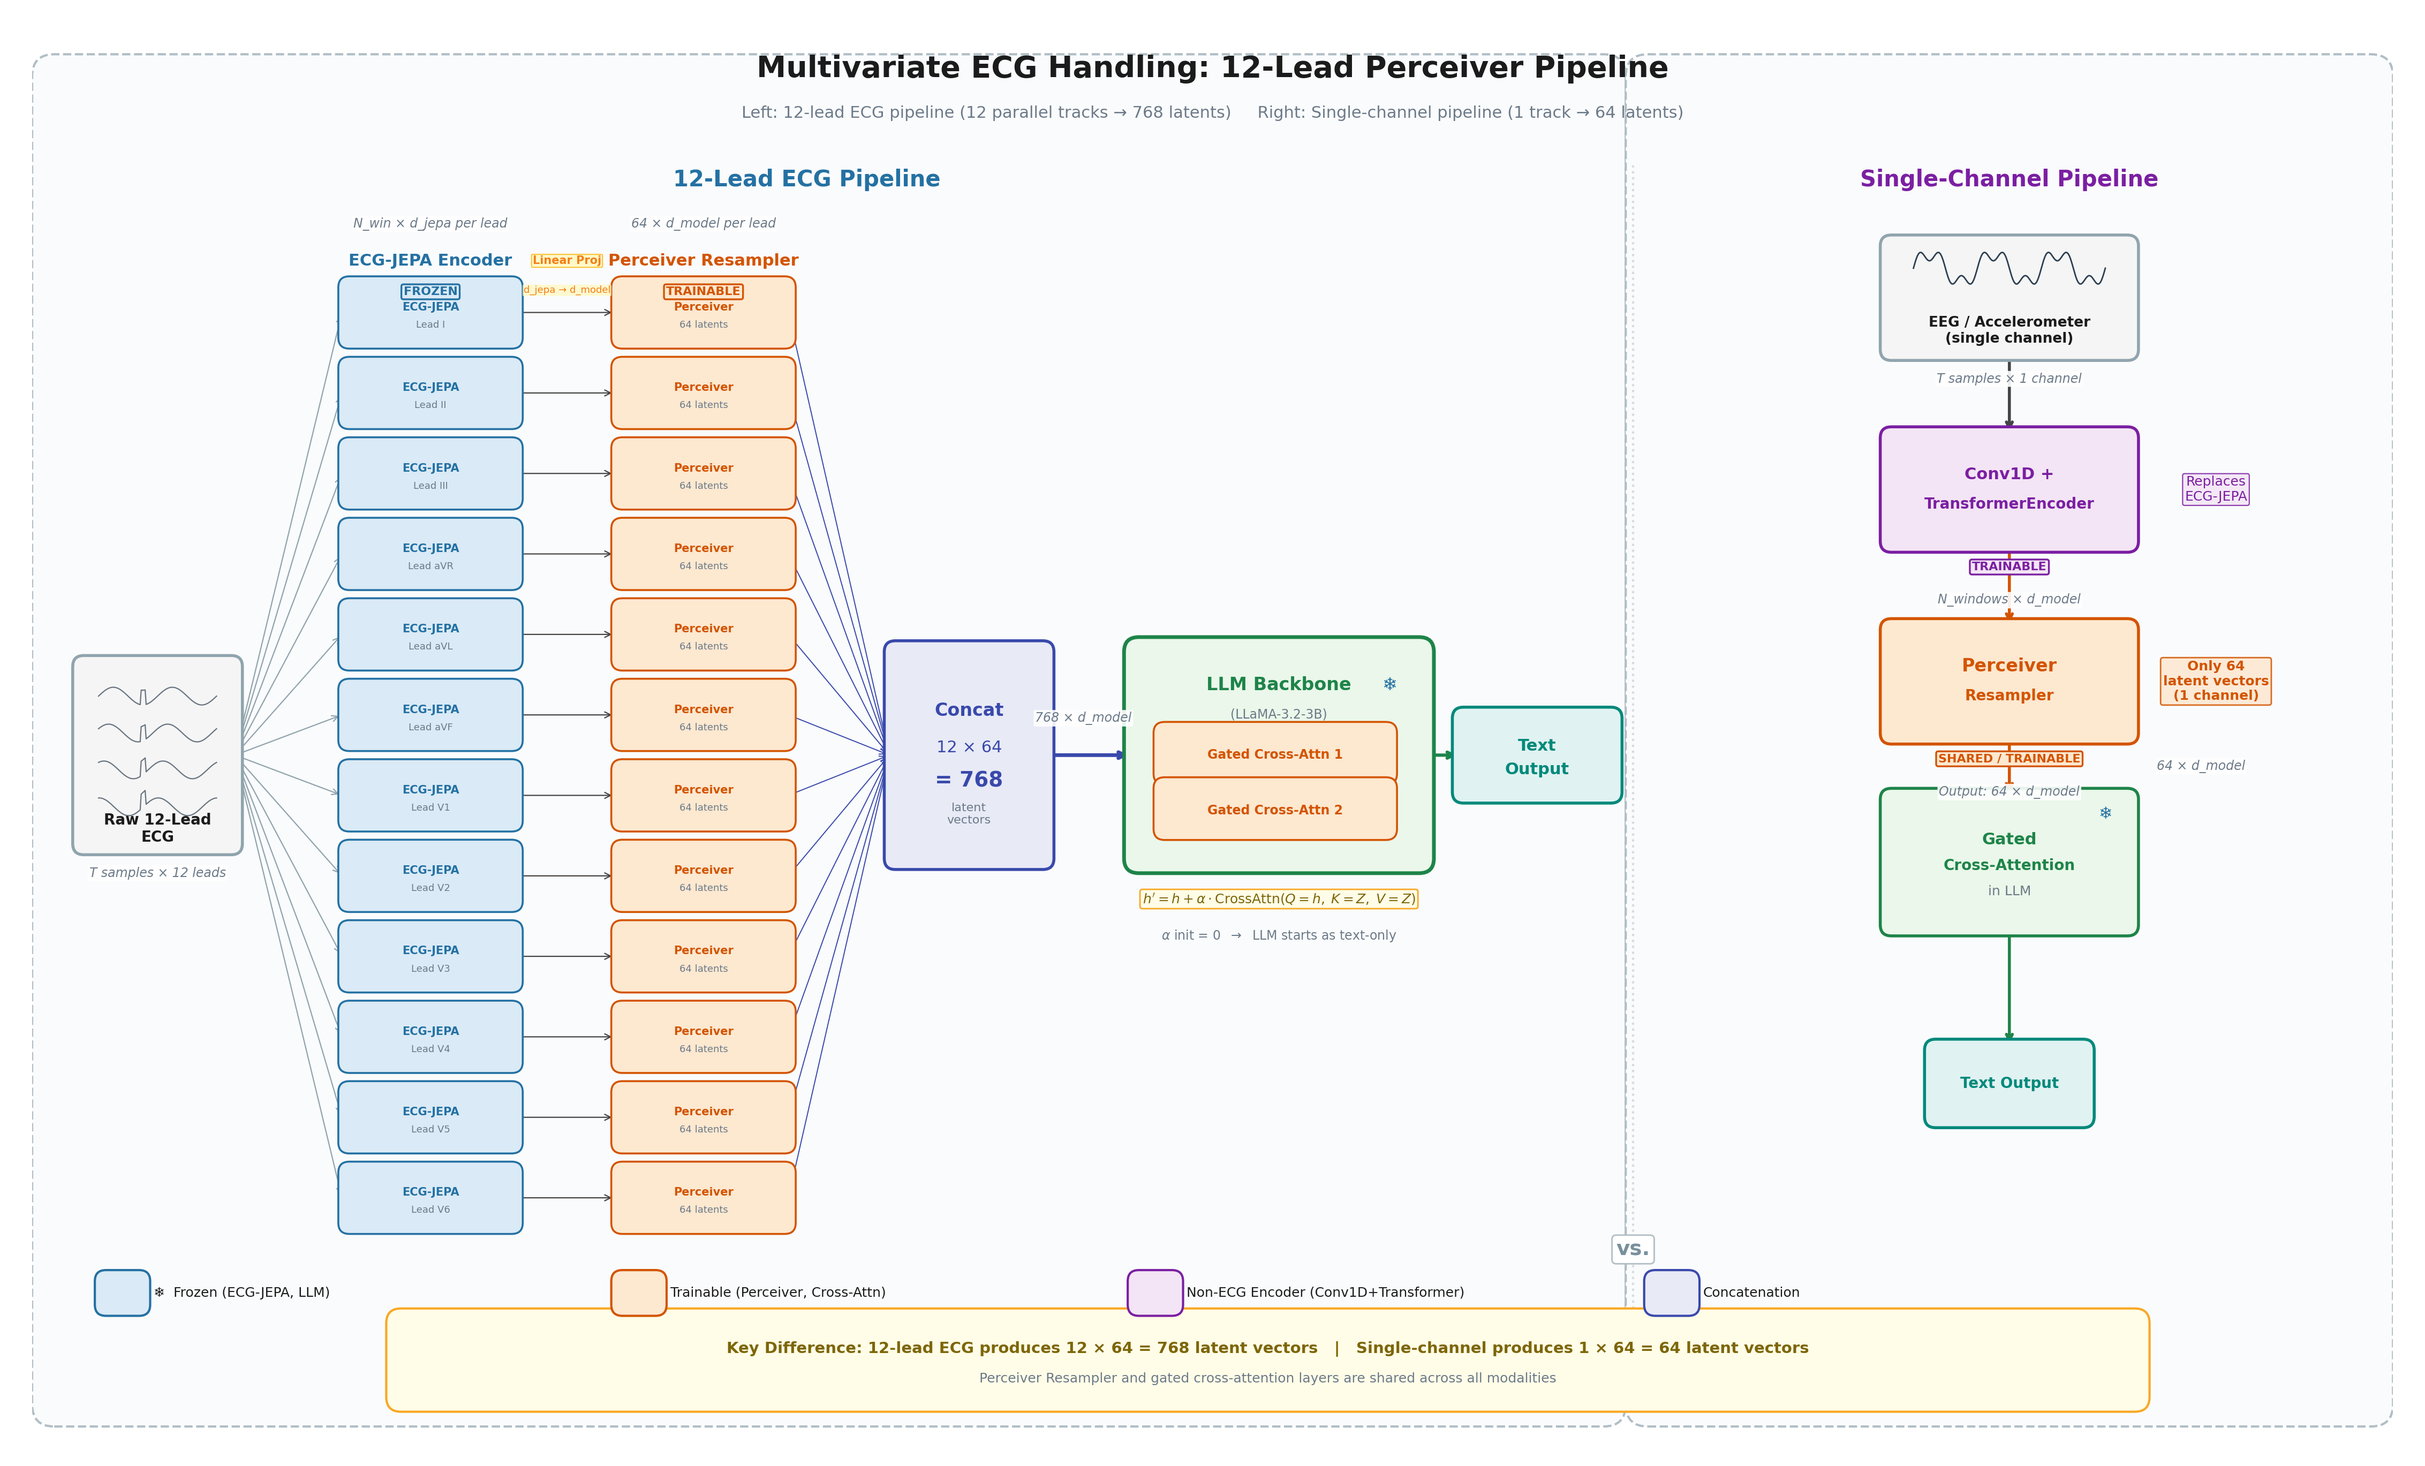
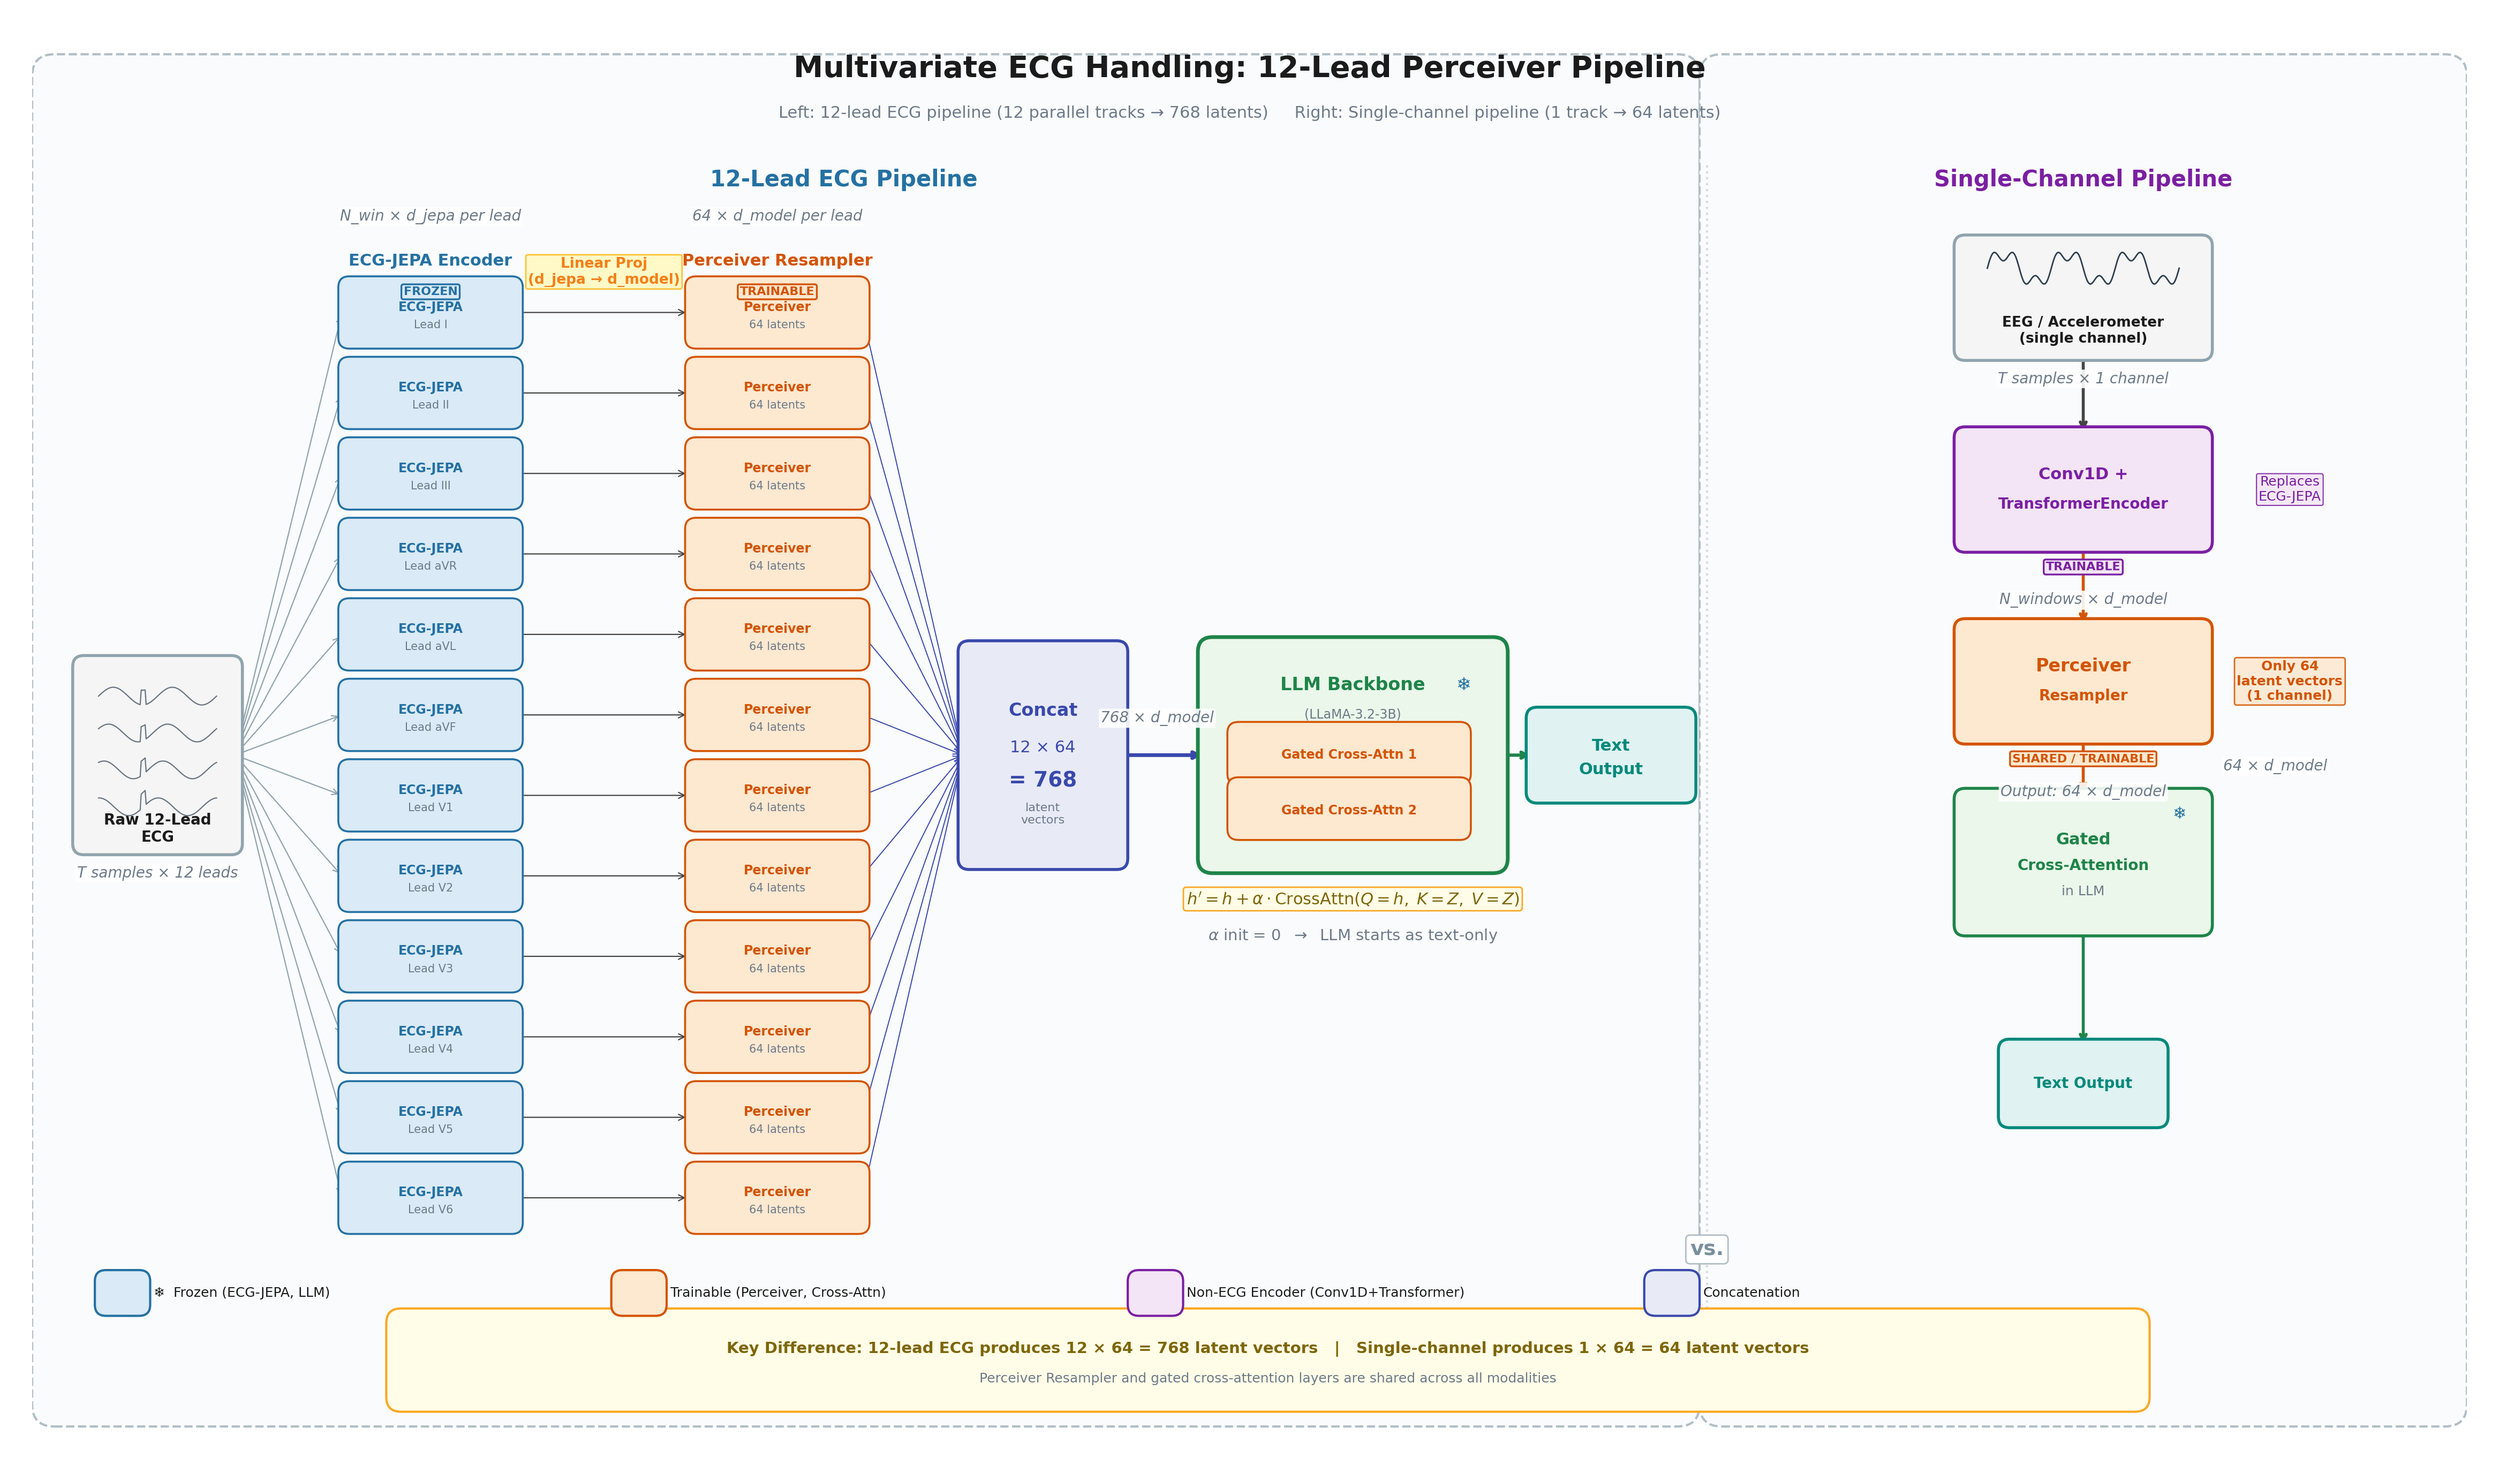
Fix figures after review for qoq-med

diff --git a/qoq-med/fig_002.py b/qoq-med/fig_002.py
@@ -36,7 +36,7 @@ SINGLE_BD   = "#7B1FA2"
 
 # ── Figure setup ────────────────────────────────────────────────────
 fig, ax = plt.subplots(figsize=(32, 17))
-ax.set_xlim(-1.5, 30.5)
+ax.set_xlim(-1.5, 31.5)
 ax.set_ylim(-2.2, 16.8)
 ax.set_aspect('equal')
 ax.axis('off')
@@ -61,7 +61,7 @@ def arr(x1, y1, x2, y2, color=ARROW_CLR, lw=2.2, style='->', cs=None, zorder=2):
         props['connectionstyle'] = cs
     ax.annotate('', xy=(x2, y2), xytext=(x1, y1), arrowprops=props, zorder=zorder)
 
-def dim(x, y, s, fs=8.5):
+def dim(x, y, s, fs=10):
     txt(x, y, s, fs=fs, fc=DIM_CLR, style='italic',
         bbox=dict(boxstyle='round,pad=0.12', fc='white', ec='none', alpha=0.9))
 
@@ -75,9 +75,9 @@ def snow(x, y, size=13):
 # ====================================================================
 # TITLE
 # ====================================================================
-txt(14.5, 16.3, "Multivariate ECG Handling: 12-Lead Perceiver Pipeline",
+txt(15.0, 16.3, "Multivariate ECG Handling: 12-Lead Perceiver Pipeline",
     fs=20, fw='bold')
-txt(14.5, 15.7,
+txt(15.0, 15.7,
     "Left: 12-lead ECG pipeline (12 parallel tracks \u2192 768 latents)     "
     "Right: Single-channel pipeline (1 track \u2192 64 latents)",
     fs=11, fc=DIM_CLR)
@@ -85,11 +85,11 @@ txt(14.5, 15.7,
 # ====================================================================
 # PANEL BACKGROUNDS
 # ====================================================================
-rbox(-1.2, -1.8, 21.0, 18.0, PANEL_BG, '#B0BEC5', lw=1.5, pad=0.3, ls='--', zorder=0)
-txt(9.0, 14.8, "12-Lead ECG Pipeline", fs=15, fw='bold', fc=FROZEN_BD)
+rbox(-1.2, -1.8, 22.0, 18.0, PANEL_BG, '#B0BEC5', lw=1.5, pad=0.3, ls='--', zorder=0)
+txt(9.5, 14.8, "12-Lead ECG Pipeline", fs=15, fw='bold', fc=FROZEN_BD)
 
-rbox(20.4, -1.8, 9.8, 18.0, PANEL_BG, '#B0BEC5', lw=1.5, pad=0.3, ls='--', zorder=0)
-txt(25.3, 14.8, "Single-Channel Pipeline", fs=15, fw='bold', fc=SINGLE_BD)
+rbox(21.4, -1.8, 9.8, 18.0, PANEL_BG, '#B0BEC5', lw=1.5, pad=0.3, ls='--', zorder=0)
+txt(26.3, 14.8, "Single-Channel Pipeline", fs=15, fw='bold', fc=SINGLE_BD)
 
 # ====================================================================
 # LEFT SIDE: 12-LEAD ECG PIPELINE
@@ -126,7 +126,7 @@ lead_ys = np.linspace(lead_y_start, lead_y_end, n_leads)
 jepa_x = 2.8
 jepa_w, jepa_h = 2.2, 0.68
 
-perc_x = 6.5
+perc_x = 7.5
 perc_w, perc_h = 2.2, 0.68
 
 ecg_out_x = ecg_x + ecg_w
@@ -140,8 +140,8 @@ for i, (lead_name, ly) in enumerate(zip(all_leads, lead_ys)):
 
     # ECG-JEPA box (frozen)
     rbox(jepa_x, ly - jepa_h / 2, jepa_w, jepa_h, FROZEN_BG, FROZEN_BD, lw=1.3)
-    txt(jepa_x + jepa_w / 2, ly + 0.07, "ECG-JEPA", fs=7.5, fw='bold', fc=FROZEN_BD)
-    txt(jepa_x + jepa_w / 2, ly - 0.17, f"Lead {lead_name}", fs=6.5, fc=DIM_CLR)
+    txt(jepa_x + jepa_w / 2, ly + 0.07, "ECG-JEPA", fs=8.5, fw='bold', fc=FROZEN_BD)
+    txt(jepa_x + jepa_w / 2, ly - 0.17, f"Lead {lead_name}", fs=7.5, fc=DIM_CLR)
 
     # Arrow JEPA → Perceiver
     arr(jepa_x + jepa_w + 0.05, ly, perc_x - 0.1, ly,
@@ -149,8 +149,8 @@ for i, (lead_name, ly) in enumerate(zip(all_leads, lead_ys)):
 
     # Perceiver Resampler box (trainable)
     rbox(perc_x, ly - perc_h / 2, perc_w, perc_h, TRAIN_BG, TRAIN_BD, lw=1.3)
-    txt(perc_x + perc_w / 2, ly + 0.07, "Perceiver", fs=7.5, fw='bold', fc=TRAIN_BD)
-    txt(perc_x + perc_w / 2, ly - 0.17, "64 latents", fs=6.5, fc=DIM_CLR)
+    txt(perc_x + perc_w / 2, ly + 0.07, "Perceiver", fs=8.5, fw='bold', fc=TRAIN_BD)
+    txt(perc_x + perc_w / 2, ly - 0.17, "64 latents", fs=7.5, fc=DIM_CLR)
 
 # Column labels above tracks
 txt(jepa_x + jepa_w / 2, lead_y_start + 0.7, "ECG-JEPA Encoder", fs=11, fw='bold', fc=FROZEN_BD)
@@ -160,20 +160,19 @@ txt(perc_x + perc_w / 2, lead_y_start + 0.7, "Perceiver Resampler", fs=11, fw='b
 badge(perc_x + perc_w / 2, lead_y_start + 0.28, "TRAINABLE", TRAIN_BG, TRAIN_BD)
 
 # Dimension annotations above column labels
-dim(jepa_x + jepa_w / 2, lead_y_start + 1.2, "N_win \u00d7 d_jepa per lead")
-dim(perc_x + perc_w / 2, lead_y_start + 1.2, "64 \u00d7 d_model per lead")
+dim(jepa_x + jepa_w / 2, lead_y_start + 1.3, "N_win \u00d7 d_jepa per lead")
+dim(perc_x + perc_w / 2, lead_y_start + 1.3, "64 \u00d7 d_model per lead")
 
-# Linear projection note between the two column headers
+# Linear projection note — positioned between column headers at mid height
 mid_arrow_x = (jepa_x + jepa_w + perc_x) / 2
-txt(mid_arrow_x, lead_y_start + 0.7,
-    "Linear Proj", fs=7.5, fc='#F57F17', fw='bold',
-    bbox=dict(boxstyle='round,pad=0.1', fc='#FFF9C4', ec='#FBC02D', lw=0.8, alpha=0.9))
-txt(mid_arrow_x, lead_y_start + 0.3,
-    "d_jepa \u2192 d_model", fs=6.5, fc='#F57F17',
-    bbox=dict(boxstyle='round,pad=0.08', fc='#FFF9C4', ec='none', alpha=0.8))
+# Use a single combined label to avoid vertical stacking issues
+txt(mid_arrow_x, lead_y_start + 0.55,
+    "Linear Proj\n(d_jepa \u2192 d_model)", fs=9.5, fc='#F57F17', fw='bold',
+    bbox=dict(boxstyle='round,pad=0.15', fc='#FFF9C4', ec='#FBC02D', lw=1.0, alpha=0.95),
+    zorder=7)
 
 # --- Concatenation block ---
-concat_x = 10.2
+concat_x = 11.2
 concat_w, concat_h = 2.0, 2.8
 concat_cy = (lead_y_start + lead_y_end) / 2
 concat_y = concat_cy - concat_h / 2
@@ -190,7 +189,7 @@ for ly in lead_ys:
         color=CONCAT_BD, lw=0.7, style='->')
 
 # --- Gated Cross-Attention in LLM ---
-gca_x = 13.5
+gca_x = 14.5
 gca_w, gca_h = 3.8, 2.8
 gca_cy = concat_cy
 gca_y = gca_cy - gca_h / 2
@@ -213,10 +212,10 @@ for j, yoff in enumerate([0.0, -0.75]):
 # Gating formula callout below LLM box
 txt(gca_x + gca_w / 2, gca_y - 0.55,
     r"$h' = h + \alpha \cdot \mathrm{CrossAttn}(Q{=}h,\; K{=}Z,\; V{=}Z)$",
-    fs=9, fc='#7D6608',
+    fs=11, fc='#7D6608',
     bbox=dict(boxstyle='round,pad=0.18', fc=GATE_BG, ec=GATE_BD, lw=1.0))
 txt(gca_x + gca_w / 2, gca_y - 1.05,
-    r"$\alpha$ init = 0  $\rightarrow$  LLM starts as text-only", fs=8.5, fc=DIM_CLR)
+    r"$\alpha$ init = 0  $\rightarrow$  LLM starts as text-only", fs=10.5, fc=DIM_CLR)
 
 # --- Text Output (left side) - to the right of LLM box ---
 out_x = gca_x + gca_w + 0.6
@@ -234,7 +233,7 @@ arr(gca_x + gca_w + 0.1, gca_cy, out_x - 0.05, gca_cy,
 # ====================================================================
 # RIGHT SIDE: SINGLE-CHANNEL PIPELINE (vertical top-to-bottom)
 # ====================================================================
-right_cx = 25.3
+right_cx = 26.3
 step_gap = 2.6  # vertical spacing between stages
 
 # Stage Y positions (top to bottom)
@@ -340,9 +339,9 @@ for i, (lab, bg, bd) in enumerate(leg_items):
 # ====================================================================
 # VERTICAL DIVIDER
 # ====================================================================
-ax.plot([20.2, 20.2], [-0.5, 15.0], color='#B0BEC5', lw=1.5,
+ax.plot([21.2, 21.2], [-0.5, 15.0], color='#B0BEC5', lw=1.5,
         linestyle=':', zorder=1, alpha=0.5)
-txt(20.2, 0.3, "vs.", fs=14, fw='bold', fc='#78909C', rotation=0,
+txt(21.2, 0.3, "vs.", fs=14, fw='bold', fc='#78909C', rotation=0,
     bbox=dict(boxstyle='round,pad=0.2', fc=WHITE, ec='#B0BEC5', lw=1))
 
 # ====================================================================
